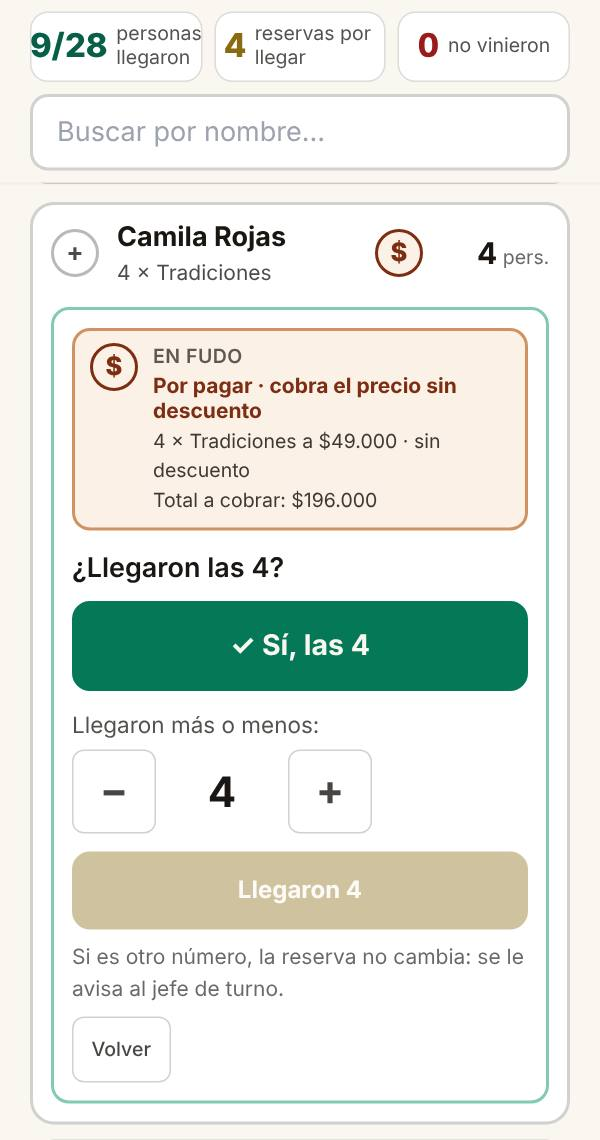
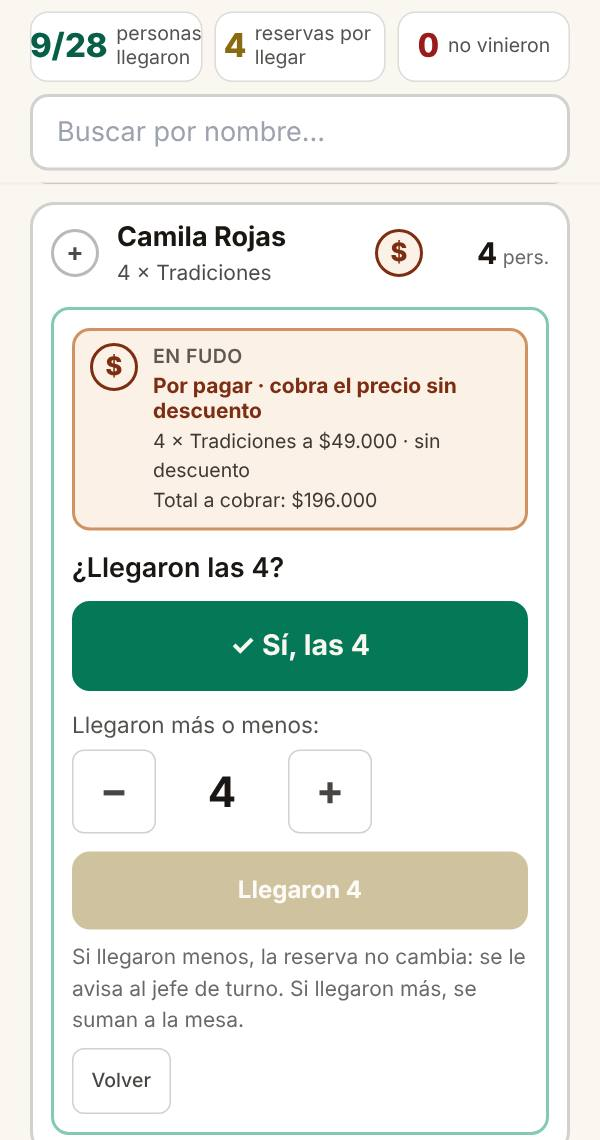
La mesa: ayuda al día, misión de la anfitriona y el registro con las mesas que faltan
Claude-Session: https://claude.ai/code/session_01SbCpLYfntmdHmiP7MEtaZ6

Changed region(s): [[0.03, 0.8904, 0.96, 1.0], [0.15, 0.8289, 0.87, 0.8904]]

diff --git a/panel/src/lib/misiones.ts b/panel/src/lib/misiones.ts
@@ -54,18 +54,21 @@ const ANFITRION: Mision[] = [
     intro: 'Al apretar Llegó te muestra cómo ingresarla en Fudo y te pregunta si llegaron todas las personas de esa reserva.',
     puntos: [
       'Si llegaron todas, un toque y listo.',
-      'Si llegaron más o menos, cuéntalas con − y +.',
-      'Un número distinto no cambia la reserva: le avisa al jefe de turno, que decide.'
+      'Si llegaron más o menos, cuéntalas con − y +. Si son más, te pregunta qué come cada uno.',
+      'Si llegaron menos, la reserva no cambia: le avisa al jefe de turno, que decide.'
     ],
     probar: { texto: 'Abrir la recepción', url: '/recepcion' }
   },
   {
-    id: 'cobrar', emoji: '💵', titulo: 'Qué cobrar al abrir la mesa', escena: 'anf-fudo',
-    intro: 'El círculo de cada reserva dice cómo viene el pago: ✓ ya pagó, $ se cobra, ½ abonó, ! ojo. Ábrela con + para ver cómo ingresarla en Fudo.',
+    // **La mesa** (2026-11-17): reemplazó a "Qué cobrar al abrir la mesa",
+    // que ya cuentan la primera misión (el círculo) y la segunda (la caja de
+    // Fudo al apretar Llegó).
+    id: 'mesa', emoji: '🧾', titulo: 'La mesa: quién se sumó y cuánto fue', escena: 'anf-mesa',
+    intro: 'Abre con + una reserva que ya llegó: ahí está su mesa. Lo anotas tú, desde la hora de apertura.',
     puntos: [
-      'El círculo: cómo viene el pago, sin abrir nada.',
-      'Abierta, dice qué cobrar: el precio sin descuento y el total.',
-      'Si alguien no llegó, márcalo No vino.'
+      'Lo que se sumó y el valor final, a la vista.',
+      'Agregar a la mesa: alguien que llegó después, con su menú o a la carta.',
+      'El valor final: el total de la cuenta en Fudo, con lo ya pagado incluido.'
     ],
     probar: { texto: 'Abrir la recepción', url: '/recepcion' }
   },
@@ -164,7 +167,7 @@ const ENCARGADO: Mision[] = [
   },
   {
     id: 'recepcion', emoji: '🚪', titulo: 'La recepción y qué cobrar', escena: 'enc-recepcion',
-    intro: 'La misma pantalla de la entrada. Los avisos que manda la anfitriona te llegan a ti.',
+    intro: 'La misma pantalla de la entrada. Los avisos que manda la anfitriona te llegan a ti, y también anotas la mesa: quién se sumó y el valor final.',
     puntos: [
       'Qué cobrar al abrir la mesa en Fudo.',
       'Marca quién llegó.',

diff --git a/panel/src/lib/ayudas.ts b/panel/src/lib/ayudas.ts
@@ -81,6 +81,10 @@ export const AYUDAS: Record<string, Ayuda> = {
       'Editar abre la reserva para corregir un teléfono, un menú o el estado '
       + 'del pago. Marcarla Pagada o Abonada le avisa al encargado de pagos, '
       + 'que la revisa.',
+      'La mesa, en cada reserva abierta: quién se sumó en el día —con su menú '
+      + 'o a la carta— y el valor final de la cuenta en Fudo. Se anota desde la '
+      + 'hora de apertura. Arriba, Las mesas suma los valores finales del día y '
+      + 'dice cuántas mesas faltan, para compararlo con Fudo.',
       'Equipo y cuentas del día abre la ventana donde se escriben los montos '
       + 'y la propina.'
     ],
@@ -340,9 +344,14 @@ export const AYUDAS: Record<string, Ayuda> = {
     cuerpo: [
       'La pantalla de la entrada: solo las reservas de hoy, en grande, para '
       + 'recibir a la gente con un tablet o el celular en la mano.',
-      'Al apretar Llegó te pregunta si llegaron todos. Si vino más o menos '
-      + 'gente, lo cuentas con − y +: eso no cambia la reserva, le avisa al '
-      + 'jefe de turno.'
+      'Al apretar Llegó te pregunta si llegaron todos. Si llegaron menos, lo '
+      + 'cuentas con − y +: eso no cambia la reserva, le avisa al jefe de turno. '
+      + 'Si llegaron más, te pregunta qué come cada uno —un menú o a la carta— '
+      + 'y se suman a la mesa.',
+      'Al abrir una reserva que llegó está su mesa: Agregar a la mesa, para '
+      + 'alguien que llegó después, y el valor final, que es el total de la '
+      + 'cuenta en Fudo con lo ya pagado incluido. Las bebidas y lo de la carta '
+      + 'no se anotan uno por uno: basta el total.'
     ],
     pasos: [
       'Busca la reserva por nombre.',

diff --git a/panel/src/components/DayView.tsx b/panel/src/components/DayView.tsx
@@ -607,7 +607,11 @@ export default function DayView(
         const delDiaQueOcupan = delDia.filter(ocupaLugar);
         const m = mesasDelDia(delDiaQueOcupan);
         if (!m.conValor && !m.agregadas) return null;
-        const conMesa = delDiaQueOcupan.filter((r) => r.valorFinal != null || cuantosAgregados(r.agregados) > 0);
+        // Las que tienen algo anotado y las que llegaron sin valor final:
+        // esas son las que faltan.
+        const conMesa = delDiaQueOcupan.filter((r) => r.valorFinal != null || cuantosAgregados(r.agregados) > 0
+          || r.asistencia === ASISTENCIA.vino)
+          .sort((a, b) => Number(a.valorFinal != null) - Number(b.valorFinal != null) || a.nombre.localeCompare(b.nombre, 'es'));
         return (
           <>
             <Rotulo>Las mesas</Rotulo>

diff --git a/panel/src/components/RecepcionVista.tsx b/panel/src/components/RecepcionVista.tsx
@@ -245,8 +245,10 @@ export default function RecepcionVista() {
                   {r.menu && <span className="block truncate text-[14px] text-hueso/70">{r.menu}</span>}
                 </span>
                 {!noVino && <IconoFudo ingreso={r.ingreso} />}
+                {/* La gente de la mesa, con los que se sumaron: el mismo
+                    número que la página del día (2026-11-17). */}
                 <span className="w-[4.5rem] shrink-0 text-right text-[20px] font-bold tabular-nums">
-                  {r.personas}<span className="ml-1 text-[13px] font-normal text-hueso/65">pers.</span>
+                  {r.personas + cuantosAgregados(r.agregados)}<span className="ml-1 text-[13px] font-normal text-hueso/65">pers.</span>
                 </span>
               </button>
 

diff --git a/panel/src/components/MesaReserva.tsx b/panel/src/components/MesaReserva.tsx
@@ -49,7 +49,7 @@ export function ElegirAgregados({ opciones, valor, onCambio }: {
         return (
           <li key={m} className={`flex items-center gap-2 rounded-xl border-2 px-2 py-1 ${n > 0
             ? 'border-cielo-fuerte/60 bg-cielo/10' : 'border-hueso/15'}`}>
-            <span className={`min-w-0 flex-1 truncate text-[16px] ${n > 0 ? 'font-bold' : ''}`}>{etiqueta(m)}</span>
+            <span className={`min-w-0 flex-1 text-[16px] leading-tight ${n > 0 ? 'font-bold' : ''}`}>{etiqueta(m)}</span>
             <button type="button" aria-label={`Una menos de ${m}`} disabled={n === 0}
               className="boton h-11 w-11 shrink-0 !text-[22px] !font-bold disabled:opacity-30"
               onClick={() => poner(m, n - 1)}>−</button>

diff --git a/panel/CLAUDE.md b/panel/CLAUDE.md
@@ -5333,6 +5333,70 @@ Fudo… que tenga que documentar estos cambios obligatoriamente"*. Lógica en
 Pagadas · Abonadas · Sin pagar*: de un toque, solo las que anotó o vendió
 esta cuenta (`esSuya()` con `Anotada por` y el vendedor de la cotización).
 
+### La mesa: agregados y valor final (2026-11-17)
+
+Lo pidió el cliente: *"pasa mucho que viene una reserva, comen los menús,
+pero vienen dos personas más o un niño más que come a la carta… y además
+poder en la misma instancia agregar el valor total final de esta mesa"*,
+para que la gerencia pueda compararlo con Fudo. Lógica en `lib/mesa.ts`
+(pura, con pruebas) y la pieza `MesaReserva.tsx`, **la misma en la
+Recepción y en la página del día**.
+
+- **Quién y cuándo**: quien tiene `asistencia` —la anfitriona, el
+  encargado de turno, **el encargado de operaciones** (lo pidió el cliente
+  el mismo día), quien paga, la gerencia general y el administrador—, en la
+  Recepción o en la página del día, **desde la hora de apertura**
+  (`yaAbrio()`, las 13:00 si el día no dice otra) y con el día sin cerrar.
+  La anfitriona, solo hoy. Va por el mismo `PATCH` de la recepción
+  (`DE_LA_ENTRADA` sumó `agregados` y `valorFinal`).
+- **Agregados**: la gente que se sumó, cada uno con un menú o **a la
+  carta**. Columna `Agregados`, con el formato de los menús: *"1 ×
+  Tradiciones + 2 × A la carta"* (`escribirAgregados()`). Las opciones son
+  los menús de la reserva, los del formulario de reserva y *a la carta*
+  (`opcionesParaAgregar()`). Se eligen con − y + (`ElegirAgregados`).
+- **Al apretar *Llegó* con más gente**, la misma pregunta dice *¿Qué comen
+  los 2 de más?* y no deja guardar hasta repartirlos (*Falta decir qué comen
+  1*). Quedan como agregados, **sin aviso** al jefe de turno: ya están
+  anotados. Con menos gente, el aviso de siempre.
+- **El valor final**: el total de la cuenta de la mesa en Fudo, **con lo ya
+  pagado incluido** (lo decidió el cliente). Columna `Valor final`; quién y
+  cuándo, en `Mesa cerrada`, que pone el servidor. Las bebidas y la carta no
+  se registran producto por producto: basta el total.
+- **Se guardan con un botón que dice lo que pasa** (*✓ Guardar · 2
+  agregados*, *✓ Guardar $310.500*), no solos: toman cupo y son plata.
+  Se pueden cambiar; vaciar el valor final lo borra.
+- **Suman a los números del día** (`personasEnLaMesa()`, `menuEnLaMesa()`):
+  la gente, el cupo y *Qué preparar*. *A la carta* suma gente, no menús. Si
+  la recepción ya anotó cuántos llegaron, los agregados se suman ahí
+  (`llegaronDespues()`), y *Rectificar* descuenta los agregados de lo de la
+  recepción: rectificar es sobre la gente de la reserva, lo agregado va
+  aparte.
+- **La caja de Fudo los dice**: *+ 1 × Tradiciones a $49.000 · agregado, se
+  cobra aparte*, *+ 2 a la carta · se cobra lo que consuman*, también en una
+  reserva ya pagada.
+- **El registro, para la gerencia** (lo pidió el cliente: *"no es necesario
+  marcar si cuadra, solo importante el registro"*). En la página del día,
+  **Las mesas**: el total de los valores finales, cuántas mesas faltan y
+  cuánta gente se sumó, y *Ver mesa por mesa* con cada una —gente,
+  agregados, valor final y quién lo anotó—, las que faltan primero. Lo ven
+  quienes tienen `rectificar` o `informe`. **No hay marca de "cuadra con
+  Fudo"** ni aviso en la bandeja.
+- **El valor final va con la plata** (`privacidad.ts`): a quien la reserva
+  le llega sin monto, le llega sin valor final.
+- **Shopify y la cotización no lo tocan** (`camposDeShopify()`, y el
+  `PATCH` de una reserva de cotización lo acepta como *lo del día*).
+- **Lecturas de Google**: ninguna más. La recepción ya leía `Menús`; la
+  página del día saca el registro de las reservas que ya carga.
+- **Probado en el panel de ejemplo**: la anfitriona marca *Llegó* a Camila
+  (4) con 2 más, reparte 1 Tradiciones y 1 a la carta, y anota $310.500;
+  la encargada de operaciones suma un niño a otra mesa y anota $289.000
+  desde la página del día.
+  La fila dice *6 pers.*, la caja de Fudo los cobra aparte, la página del
+  día de la gerencia y del encargado muestra *Las mesas · $310.500 · 1 mesa
+  anotada · faltan 2* y la mesa en la reserva, y la bitácora dice *Anotó la
+  mesa · Camila Rojas · +2… · valor final $310.500*. `revisarPlayStation()`
+  sin hallazgos a 393 y 1280.
+
 ### La bandeja de aprobaciones (2026-11-12)
 
 Lo pidió el cliente: que al gerente de operaciones, apenas entra, le salga
@@ -5688,7 +5752,9 @@ vino o no vino. Por ahora"*. El rol se usa **solo el día de apertura**.
 - **"Llegaron 4 de 6" no cambia la reserva**: queda en la columna nueva
   `Llegaron` y deja solo un `Aviso recepción` (*"13:40 · Llegaron 4 de
   6"*). El jefe de turno decide si la ajusta, editándola como siempre; así
-  el panel cuadra con **Fudo**, donde se cobra la mesa.
+  el panel cuadra con **Fudo**, donde se cobra la mesa. **Llegaron más** ya
+  no avisa: desde el 2026-11-17 pregunta qué come cada uno y se suman a la
+  mesa (ver *La mesa: agregados y valor final*).
 - **Lo que la anfitriona no toca** —personas, menús, pago, anotar o borrar—
   no tiene botón. En la ruta (`/api/reservas/[fila]`), con `asistencia`
   solo pasa un cambio que sea únicamente `asistencia`, `llegaron` y
